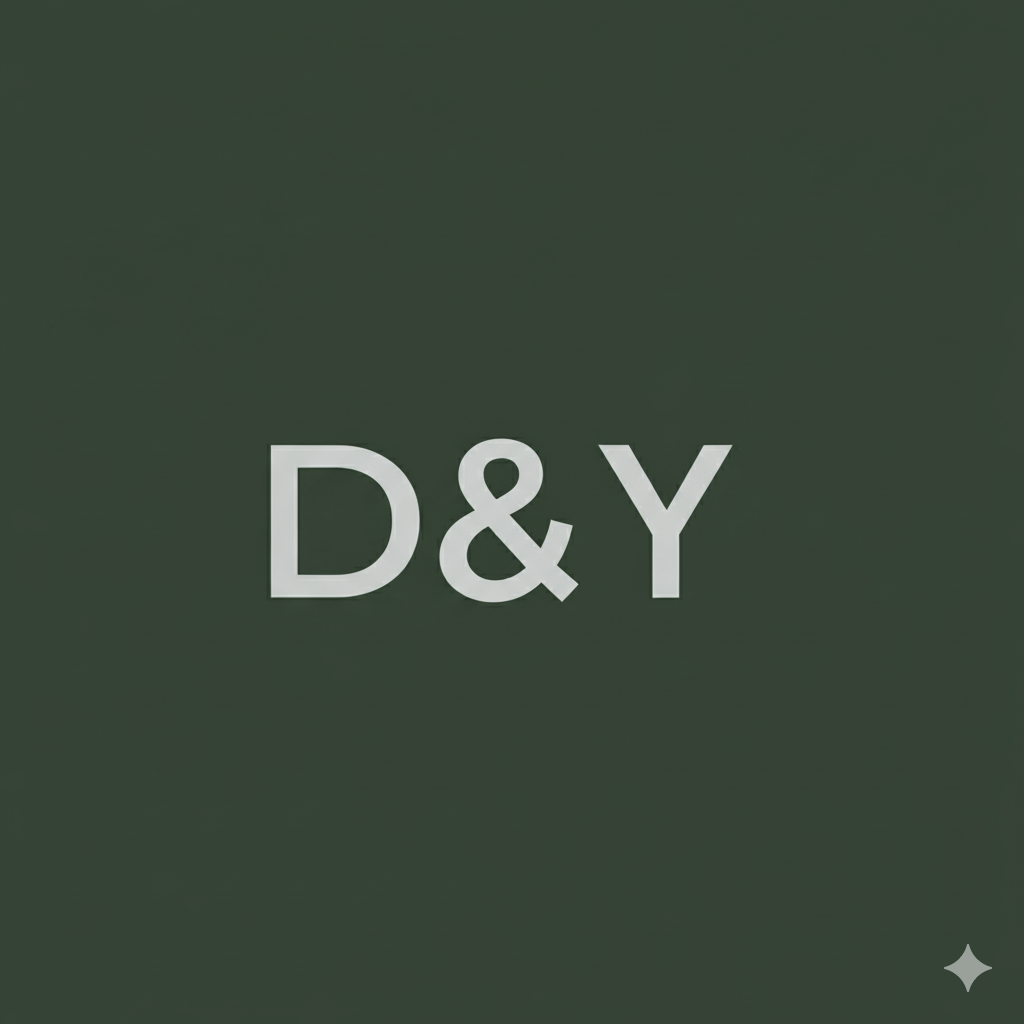
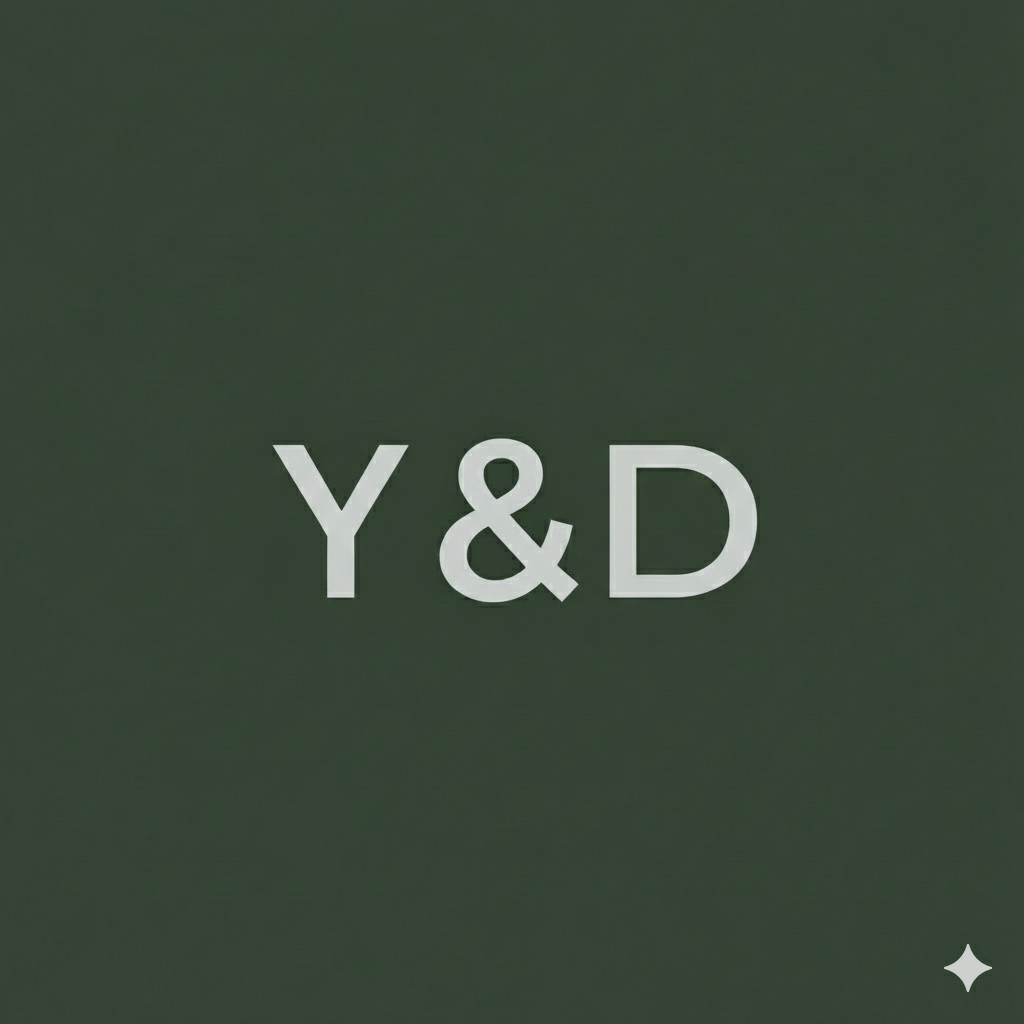
Ajustando a data e horario do casamento

Changed region(s): [[0.25, 0.4375, 0.4375, 0.5938], [0.5938, 0.4375, 0.75, 0.5938], [0.9062, 0.9062, 0.9688, 0.9688]]

diff --git a/src/pages/Home.jsx b/src/pages/Home.jsx
@@ -4,7 +4,7 @@ import presenteImg from "../assets/presente.jpg"; // imagem da seção de presen
 import fundoSite from "../assets/fundo-site.jpg"; // imagem de fundo enviada
 
 const Home = () => {
-  const casamentoData = new Date("2026-07-12T16:30:00");
+  const casamentoData = new Date("2026-07-11T12:00:00");
   const [diasRestantes, setDiasRestantes] = useState(0);
 
   useEffect(() => {
@@ -29,9 +29,9 @@ const Home = () => {
       <div className="overlay">
         <section className="save-date-section">
           <h2 className="save-date-text">Save the Date</h2>
-          <h1 className="nomes">Diego & Yasmin</h1>
+          <h1 className="nomes">Yasmin & Diego</h1>
           <p className="contador">
-            12.07.2026 — Faltam {diasRestantes} dias
+            11.07.2026 — Faltam {diasRestantes} dias
           </p>
         </section>
 
@@ -41,7 +41,7 @@ const Home = () => {
 
           <div className="evento-info">
             <p>
-              <span className="emoji">📅</span> 12 de julho de 2026 — 10h30
+              <span className="emoji">📅</span> 11 de julho de 2026 — 12h00
             </p>
             <p>
               <span className="emoji">📍</span> Rodovia do Açúcar SP - KM 154,5 - SN - Batistada, Piracicaba - SP, 13423-070

diff --git a/src/pages/Presentes.jsx b/src/pages/Presentes.jsx
@@ -203,7 +203,7 @@ export default function Presentes() {
       <div
         style={{
           display: "grid",
-          gridTemplateColumns: "repeat(auto-fill, minmax(250px, 1fr))",
+          gridTemplateColumns: "repeat(auto-fill, minmax(230px, 1fr))",
           gap: "1.5rem",
           marginTop: "1rem",
         }}
@@ -286,7 +286,7 @@ export default function Presentes() {
       <div
         style={{
           display: "grid",
-          gridTemplateColumns: "repeat(auto-fill, minmax(250px, 1fr))",
+          gridTemplateColumns: "repeat(auto-fill, minmax(230px, 1fr))",
           gap: "1.5rem",
           marginBottom: "2rem",
         }}

diff --git a/src/components/ModalConfirmacao.jsx b/src/components/ModalConfirmacao.jsx
@@ -21,7 +21,7 @@ function ModalConfirmacao({ show, codigo, onConfirmar, onNaoComparecer, onClose 
       <div className="modal-content" onClick={(e) => e.stopPropagation()}>
         <h3 className="modal-title">Confirmação de Presença</h3>
         <p className="modal-message">
-          Olá {nomeConvidado}, você está confirmando sua presença no evento de Diego & Yasmin?
+          Olá {nomeConvidado}, você está confirmando sua presença no evento de Yasmin & Diego?
         </p>
         
         {/* Botões de Ação */}

diff --git a/src/pages/Mural.jsx b/src/pages/Mural.jsx
@@ -19,7 +19,7 @@ export default function Mural() {
     <div className="mural-container">
       <h2>Mural de Recados 💌</h2>
       {recados.length === 0 ? (
-        <p>Seja o primeiro a deixar um recado para Diego & Yasmin!</p>
+        <p>Seja o primeiro a deixar um recado para Yasmin & Diego!</p>
       ) : (
         <div className="recados-lista">
           {recados.map((r, i) => (

diff --git a/src/pages/Casamento.jsx b/src/pages/Casamento.jsx
@@ -22,7 +22,7 @@ const Casamento = () => {
 
       <div className="info-container">
         <p>
-          <strong>Data:</strong> 20 de dezembro de 2025 — 16h30
+          <strong>Data:</strong> 11 de Julho de 2026 — 12h00
         </p>
         <p>
           <strong>Local:</strong> Rodovia do Açúcar SP - KM 154,5 - SN - Batistada, Piracicaba - SP, 13423-070

diff --git a/src/index.html b/src/index.html
@@ -4,7 +4,7 @@
     <meta charset="UTF-8" />
     <link rel="icon" type="image/svg+xml" href="/assets/imagem_do_link.png" />
     <meta name="viewport" content="width=device-width, initial-scale=1.0" />
-    <title>Yasmin & Diego - 12/07/2026</title>
+    <title>Yasmin & Diego - 11/07/2026</title>
   </head>
   <body>
     <div id="root"></div>

diff --git a/src/components/Header.jsx b/src/components/Header.jsx
@@ -13,7 +13,7 @@ const Header = () => {
     <header className="header-container">
       <div className="header-logo">
         <Link to="/" className="logo-text">
-          D & Y
+          Y & D
         </Link>
       </div>
 
